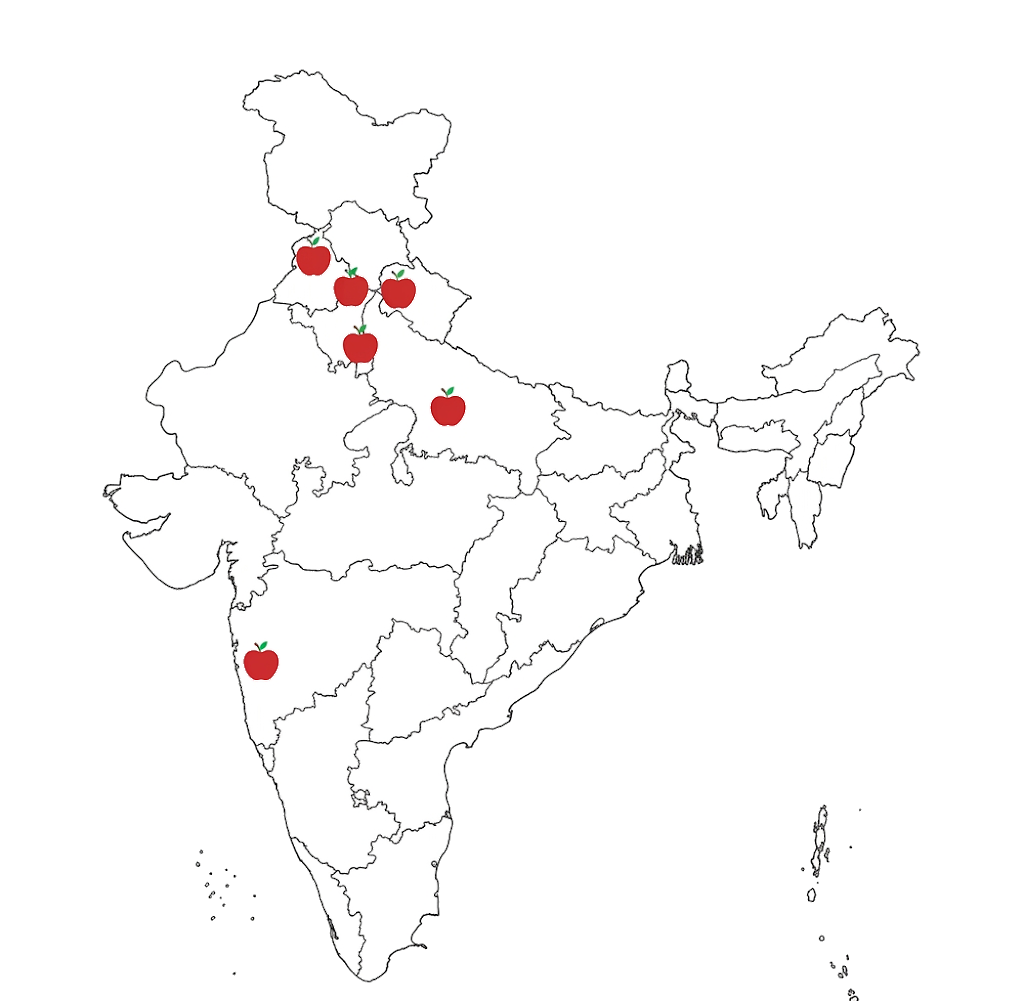
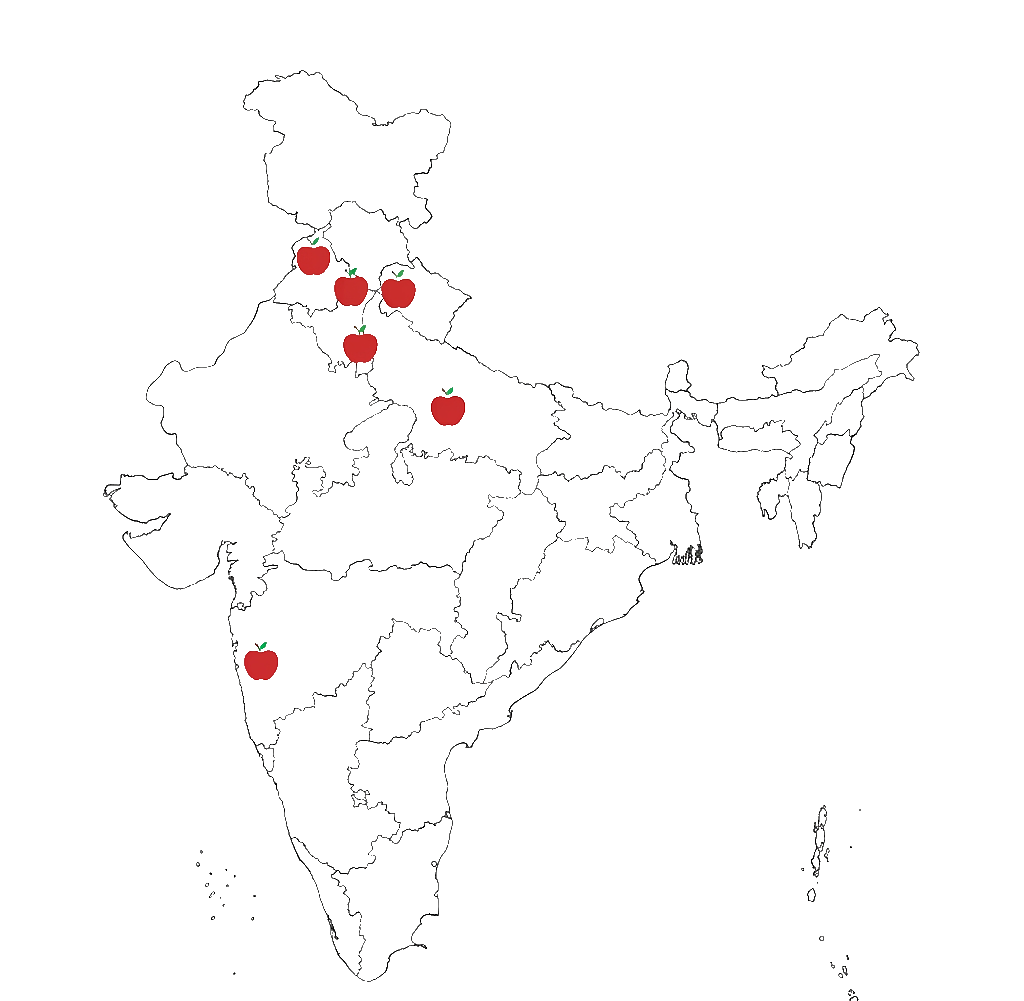
Completely purge all anti-aliased pink ring pixels from map graphic and restructure map pins as hover-activated hyperlinks linking to Contact page

diff --git a/channels.html b/channels.html
@@ -865,8 +865,8 @@
             border-color: var(--dark) transparent transparent transparent;
         }
 
-        /* Show the tooltip when the map-pin is active */
-        .map-pin.active .tooltip {
+        /* Show the tooltip when the map-pin is hovered */
+        .map-pin:hover .tooltip {
             visibility: visible;
             opacity: 1;
             transform: translateX(-50%) translateY(0);
@@ -916,12 +916,12 @@
                     <div class="map-graphic"></div>
 
                     <!-- Clean static map with pre-rendered apple indicators -->
-                    <div class="map-pin pin-punjab"><div class="tooltip">Punjab</div></div>
-                    <div class="map-pin pin-ambala"><div class="tooltip">Ambala</div></div>
-                    <div class="map-pin pin-saharanpur"><div class="tooltip">Saharanpur (UP)</div></div>
-                    <div class="map-pin pin-delhi"><div class="tooltip">Delhi</div></div>
-                    <div class="map-pin pin-kanpur"><div class="tooltip">Kanpur</div></div>
-                    <div class="map-pin pin-pune"><div class="tooltip">Pune</div></div>
+                    <a href="contact.html" class="map-pin pin-punjab"><div class="tooltip">Punjab</div></a>
+                    <a href="contact.html" class="map-pin pin-ambala"><div class="tooltip">Ambala</div></a>
+                    <a href="contact.html" class="map-pin pin-saharanpur"><div class="tooltip">Saharanpur (UP)</div></a>
+                    <a href="contact.html" class="map-pin pin-delhi"><div class="tooltip">Delhi</div></a>
+                    <a href="contact.html" class="map-pin pin-kanpur"><div class="tooltip">Kanpur</div></a>
+                    <a href="contact.html" class="map-pin pin-pune"><div class="tooltip">Pune</div></a>
                 </div>
             </div>
         </div>
@@ -936,30 +936,7 @@
 
     <script>
         document.addEventListener('DOMContentLoaded', () => {
-            const pins = document.querySelectorAll('.map-pin');
-            
-            pins.forEach(pin => {
-                // Support both touch and click events natively
-                const handleInteraction = (e) => {
-                    e.stopPropagation();
-                    const isActive = pin.classList.contains('active');
-                    
-                    // Close all active tooltips
-                    pins.forEach(p => p.classList.remove('active'));
-                    
-                    // Toggle target pin tooltip
-                    if (!isActive) {
-                        pin.classList.add('active');
-                    }
-                };
-                
-                pin.addEventListener('click', handleInteraction);
-            });
-            
-            // Close active tooltips when clicking anywhere else on the document
-            document.addEventListener('click', () => {
-                pins.forEach(p => p.classList.remove('active'));
-            });
+            // Interactive tooltips are handled natively via CSS hover states on hyperlinks
         });
     </script>
 </body>